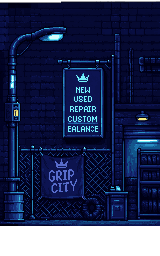
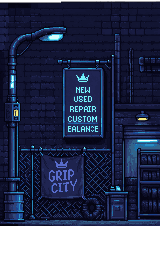
fix(tire_shop): color-grade match to warehouse (desaturate brick base)
Chief correction: tire shop's magenta-fixed v4 build still read as a
visibly different, darker/more-saturated building next to warehouse,
despite sampling inside the locked Night City Props hex ranges.
Interior warm-orange garage lighting is fine (confirmed OK for
business interiors) - the exterior brick base saturation was the
mismatch (0.7-0.92 avg vs warehouse's 0.53-0.71).

Targeted HSV desaturation (not a new PixelLab generation - v4's
layout/content/palette-family was already correct) applied to brick/
wall pixels only, sat *= 0.72, explicitly excluding the warm interior
glow (hue<70 and sat>0.25) and bright signage/highlights (v>0.55).
Result lands inside warehouse's own H/S/V range on all 4 panels.
bbox/trim unaffected - alpha untouched by the grade.

Tests: 2164/92/48, matches baseline, no regressions.

diff --git a/assets/objects/night-city-buildings/tire_shop/README.md b/assets/objects/night-city-buildings/tire_shop/README.md
@@ -81,3 +81,26 @@ Wired into `assets/ASSET_MANIFEST.json` as 4 placeable decoration items
 `building_nc_tire_right`), tagged `building` (same tag-driven "Buildings" filter
 as warehouse/coffee_bar/store — no separate filter needed). Not yet placed in any
 level JSON.
+
+
+## Color-grade correction (2026-10-03, second pass)
+
+The v4 recolor (above) fixed magenta/pink but still read as a visibly different,
+darker/more-saturated building next to warehouse when placed side by side —
+confirmed by Chief directly comparing them in-game. Root cause: tire shop's brick
+base sampled ~0.7-0.92 average saturation vs. warehouse's ~0.53-0.71, even though
+hue was already close (222-232 vs warehouse's 226-236). Numerically "in palette"
+is not the same as "reads the same" — see `docs/BUILDING_FAMILY_ASSET_SPEC.md`
+section 3's cross-family consistency clause, added because of this exact miss.
+
+Fix: a targeted HSV desaturation pass (not a new PixelLab generation — the
+layout/content/magenta-fix from v4 was already correct, only the color grade was
+off) applied to each panel's brick/wall pixels only. Saturation multiplied by
+~0.72 for any pixel that is NOT part of the warm interior glow (hue < 70°,
+sat > 0.25 — left untouched, interior lighting for a business is fine) and NOT
+a bright highlight/signage glow (value > 0.55 — also left untouched). Result
+lands at avg H 222-232 / avg S 0.52-0.69 / avg V 0.22-0.35 across all 4 panels,
+inside warehouse's own H 226-236 / S 0.53-0.71 / V 0.21-0.34 range. Brick
+material, layout, signage, and the warm garage-interior glow are all unchanged —
+only the base wall's saturation came down to match warehouse's steel-blue
+register. bbox/trim values unaffected (grading doesn't change alpha).
